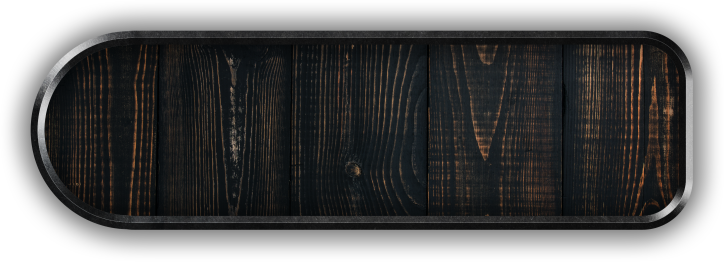
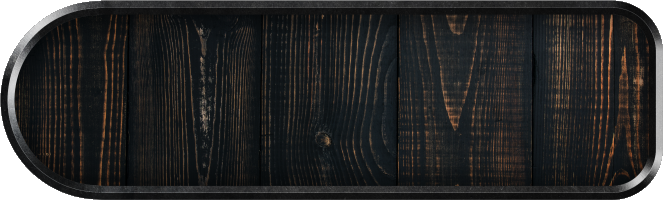
removing extra space around frames.

diff --git a/src/components/client-overlays/maps-overlay/ClientMapDisplay.vue b/src/components/client-overlays/maps-overlay/ClientMapDisplay.vue
@@ -151,37 +151,15 @@ export default {
 .pointer-both {
   width: 11rem;
   height: 4rem;
+  background: url("https://treee.github.io/tech-widget-overlay/assets/images/maps/frames/frame-middle.png");
   position: relative;
-  background: red;
   display: inline-flex;
   justify-content: center;
   align-items: center;
   font-size: x-large;
   z-index: 1;
 }
-.pointer-both:after {
-  content: "";
-  position: absolute;
-  transform: rotate(180deg);
-  left: -2rem;
-  bottom: 0;
-  width: 0;
-  height: 0;
-  border-left: 2rem solid red;
-  border-top: 2rem solid transparent;
-  border-bottom: 2rem solid transparent;
-}
-.pointer-both:before {
-  content: "";
-  position: absolute;
-  right: -2rem;
-  bottom: 0;
-  width: 0;
-  height: 0;
-  border-left: 2rem solid red;
-  border-top: 2rem solid transparent;
-  border-bottom: 2rem solid transparent;
-}
+
 .pointer-left {
   width: 13rem;
   height: 4rem;
@@ -194,30 +172,7 @@ export default {
   padding-right: 2rem;
   z-index: 1;
 }
-.pointer-left:after {
-  content: "";
-  position: absolute;
-  transform: rotate(180deg);
-  left: -2rem;
-  bottom: 0;
-  width: 0;
-  height: 0;
-  border-left: 2rem solid red;
-  border-top: 2rem solid transparent;
-  border-bottom: 2rem solid transparent;
-}
-.pointer-left:before {
-  content: "";
-  position: absolute;
-  transform: rotate(180deg);
-  right: 0;
-  bottom: 0;
-  width: 0;
-  height: 0;
-  border-left: 2rem solid white;
-  border-top: 2rem solid transparent;
-  border-bottom: 2rem solid transparent;
-}
+
 .pointer-right {
   width: 13rem;
   height: 4rem;
@@ -230,28 +185,7 @@ export default {
   padding-left: 2rem;
   z-index: 1;
 }
-.pointer-right:after {
-  content: "";
-  position: absolute;
-  left: 0;
-  bottom: 0;
-  width: 0;
-  height: 0;
-  border-left: 2rem solid white;
-  border-top: 2rem solid transparent;
-  border-bottom: 2rem solid transparent;
-}
-.pointer-right:before {
-  content: "";
-  position: absolute;
-  right: -2rem;
-  bottom: 0;
-  width: 0;
-  height: 0;
-  border-left: 2rem solid red;
-  border-top: 2rem solid transparent;
-  border-bottom: 2rem solid transparent;
-}
+
 .winner-icon {
   background: url("https://treee.github.io/tech-widget-overlay/assets/images/decals/winner.png");
   background-repeat: no-repeat;
